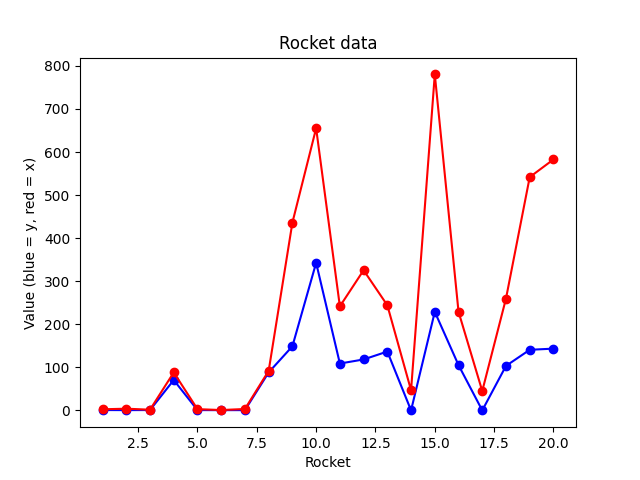
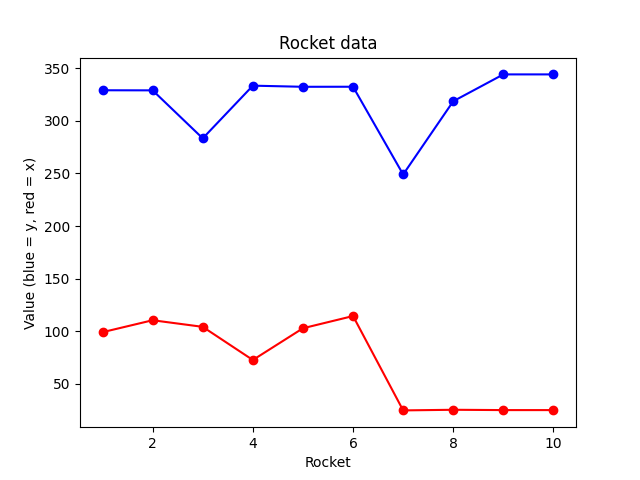
changed method of storing data for model. corrected mistake in physics by separating the tilt of the rocket from the direction of its motion (done using math.atan2()

diff --git a/rocket_versions/rocketv5/physics.py b/rocket_versions/rocketv5/physics.py
@@ -15,7 +15,10 @@ bounds = {'max_acceleration': 100,  # this is also used for preprocessing
           'max_x': 10000,
           'min_x': 0}
 
-all_value_names = ['acceleration', 'velocity', 'y', 'fuel', 'time', 'x', 'x_tilt']
+all_value_names = ['acceleration', 'velocity', 'y', 'fuel', 'time', 'x', 'x_tilt', 'x_direction']
+# x_tilt is the direction the rocket is tilted, which is the direction the acceleration is applied
+# x_direction is the direction the rocket is actually moving, so this is where we get the velocity components
+# before adding acceleration
 max_value_names = ['acceleration', 'velocity', 'y', 'fuel', 'time', 'x']
 # the names of all data fields that have a max
 min_value_names = ['y', 'x']  # the names of all data fields that have a min
@@ -31,29 +34,29 @@ def apply_physics(state, actions):
     else:
         state['fuel'] -= thrust / thrust_per_unit_fuel
 
-    state['x_tilt'] += tilt_ratio*(actions['x_tilt_gain'] - 0.5)  # x_tilt_gain is between 0 and 1,
+    state['x_tilt'] += tilt_ratio * (actions['x_tilt_gain'] - 0.5)  # x_tilt_gain is between 0 and 1,
     # so we change it to be between -0.5 and +0.5 and add it to the current x_tilt
     state['x_tilt'] %= 1  # applies unit circle
 
-    # TODO: i need to store the actual angle of the rocket's velocity and acceleration separately from x-tilt,
-    # because the rocket can have a different angle of velocity than the x-tilt, so this is just wrong.
-    # rocket falling down at angle of 250 degrees could have an x-tilt of 0.25, in which case
-    # this code just assumes that the rocket is flying up at an angle of 0.5pi radians
-    angle = state['x_tilt'] * 2 * math.pi  # this angle is stored in radians, ranging from 0-2pi
-    x_component = math.cos(angle)
-    y_component = math.sin(angle)  # multiply by these for correct components
+    vel_angle = state['x_direction'] * 2 * math.pi  # this angle is stored in radians, ranging from 0-2pi
+    vel_x_component = math.cos(vel_angle)
+    vel_y_component = math.sin(vel_angle)  # multiply by these for correct components
+
+    acc_angle = state['x_tilt'] * 2 * math.pi
+    acc_x_component = math.cos(acc_angle)
+    acc_y_component = math.sin(acc_angle)
 
     cur_acceleration = thrust * acceleration_from_thrust
-    acceleration_y = (cur_acceleration * y_component) + acceleration_from_gravity
-    acceleration_x = cur_acceleration * x_component
+    acceleration_y = (cur_acceleration * acc_y_component) + acceleration_from_gravity
+    acceleration_x = cur_acceleration * acc_x_component
 
-    cur_acceleration = math.sqrt((acceleration_x**2 + acceleration_y**2))
+    cur_acceleration = math.sqrt((acceleration_x ** 2 + acceleration_y ** 2))
     cur_acceleration *= np.sign(acceleration_y)
     state['acceleration'] = cur_acceleration
 
     # ----- y -----
     # updating velocity, and y:
-    velocity_y = state['velocity'] * y_component
+    velocity_y = state['velocity'] * vel_y_component
     if state['has_left_ground'] or acceleration_y > 0:
         # this keeps the rocket from gaining negative velocity and y while on the ground
         velocity_y += acceleration_y
@@ -61,13 +64,20 @@ def apply_physics(state, actions):
 
     # ----- x -----
     # updating velocity, and x:
-    velocity_x = state['velocity'] * x_component
+    velocity_x = state['velocity'] * vel_x_component
     velocity_x += acceleration_x
     state['x'] += velocity_x
 
-    cur_velocity = math.sqrt((velocity_x**2 + velocity_y**2))
+    cur_velocity = math.sqrt((velocity_x ** 2 + velocity_y ** 2))
     cur_velocity *= np.sign(velocity_y)
     state['velocity'] = cur_velocity
+
+    if velocity_x == 0:
+        state['x_direction'] = 0.25
+    else:
+        vel_angle = math.atan2(velocity_y, velocity_x) / (2 * math.pi)  # dividing by 2pi to convert from radians to int
+        vel_angle %= 1  # applying unit circle just in case
+        state['x_direction'] = vel_angle
 
     state['time'] += 1
 

diff --git a/rocket_versions/rocketv5/rocket.py b/rocket_versions/rocketv5/rocket.py
@@ -1,5 +1,5 @@
 from simulation import launch
-from physics import apply_physics, bounds, max_value_names
+from physics import apply_physics, bounds, all_value_names
 
 import tensorflow as tf
 from tensorflow.keras import layers, models
@@ -14,21 +14,21 @@ assert len(physical_devices) > 0, "Not enough GPU hardware devices available"
 config = tf.config.experimental.set_memory_growth(physical_devices[0], True)
 
 # -------------------------------training-------------------------------
-max_games = 20
+max_games = 10
 num_of_games = 0
 training_frequency = 5
-randomize_constant = 20  # stops being random after [randomize_constant] many games
+randomize_constant = 10  # stops being random after [randomize_constant] many games
 previous_x = 0
 all_max_ys = []  # so i can see the progression if there is any
 all_max_xs = []
 overall_training_data = set()
 
-loading_model = False
+loading_model = True
 saving_model = True
 
 # -------------------------------model architecture-------------------------------
 model = models.Sequential([
-    layers.Flatten(input_shape=(8,)),
+    layers.Flatten(input_shape=(9,)),
     layers.Dense(30, activation='relu'),
     layers.Dense(2, activation='sigmoid')
     # softmax is for classification of many different things
@@ -75,6 +75,7 @@ class Rocket:
         # new components for 2d:
         self.state['x'] = int(bounds['max_x'] / 2)
         self.state['x_tilt'] = 0.25  # this is a value from 0 to 1,
+        self.state['x_direction'] = 0.25
         # unit circle from 0-1, where 0 and 1 are 2pi (directly right), 0.5 is directly left, and 0.25 is straight up
 
         # overall data
@@ -120,7 +121,6 @@ class Rocket:
 
         # updating crashes
         if not self.state['has_left_ground'] and self.state['y'] > 0:
-            print('the rocket has left the ground')
             self.state['has_left_ground'] = True
         elif self.state['has_left_ground'] and self.state['y'] <= 0:
             # the rocket has crashed or took too long
@@ -198,12 +198,13 @@ class Rocket:
 
         squished_array = np.array([left_ground_bool])
 
-        for name in max_value_names:
+        for name in all_value_names:
             max_str = 'max_' + name
-            cur_val = self.state[name] / bounds[max_str]
+            cur_val = self.state[name]
+            # the two values without a max are x_tilt and x_direction, which are both between 0 and 1
+            if max_str in bounds:
+                cur_val /= bounds[max_str]
             squished_array = np.append(squished_array, cur_val)
-
-        squished_array = np.append(squished_array, self.state['x_tilt'])
 
         return squished_array
 
@@ -215,9 +216,6 @@ def train(training_set):
     # converting set of tuples of lists into 2 2d lists
     inputs = [list(input_data) for input_data, output_data in training_set]
     outputs = [list(output_data) for input_data, output_data in training_set]
-
-    print(inputs)
-    print(outputs)
 
     model.fit(inputs, outputs, epochs=10, verbose=1, callbacks=[checkpoint_callback])
     if saving_model:
